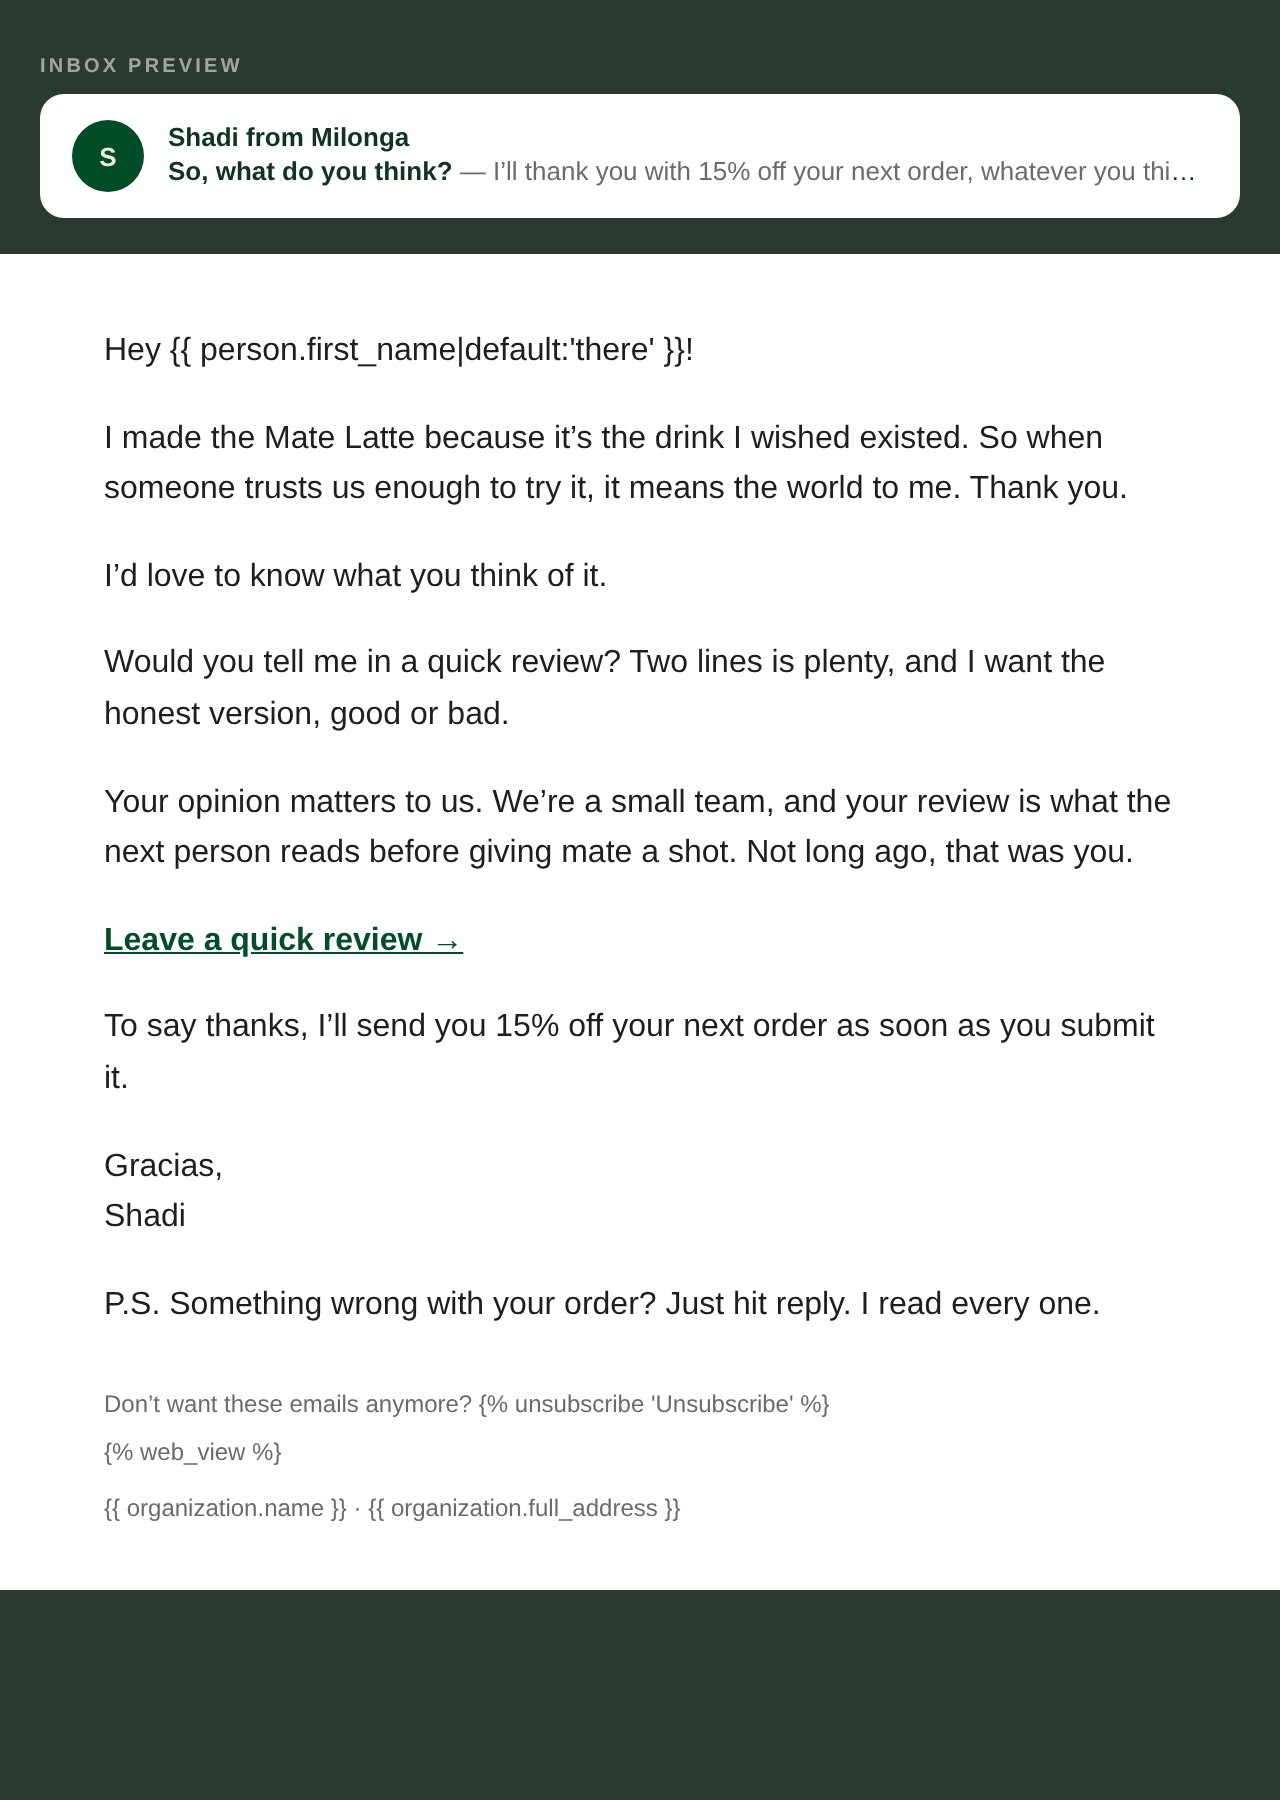
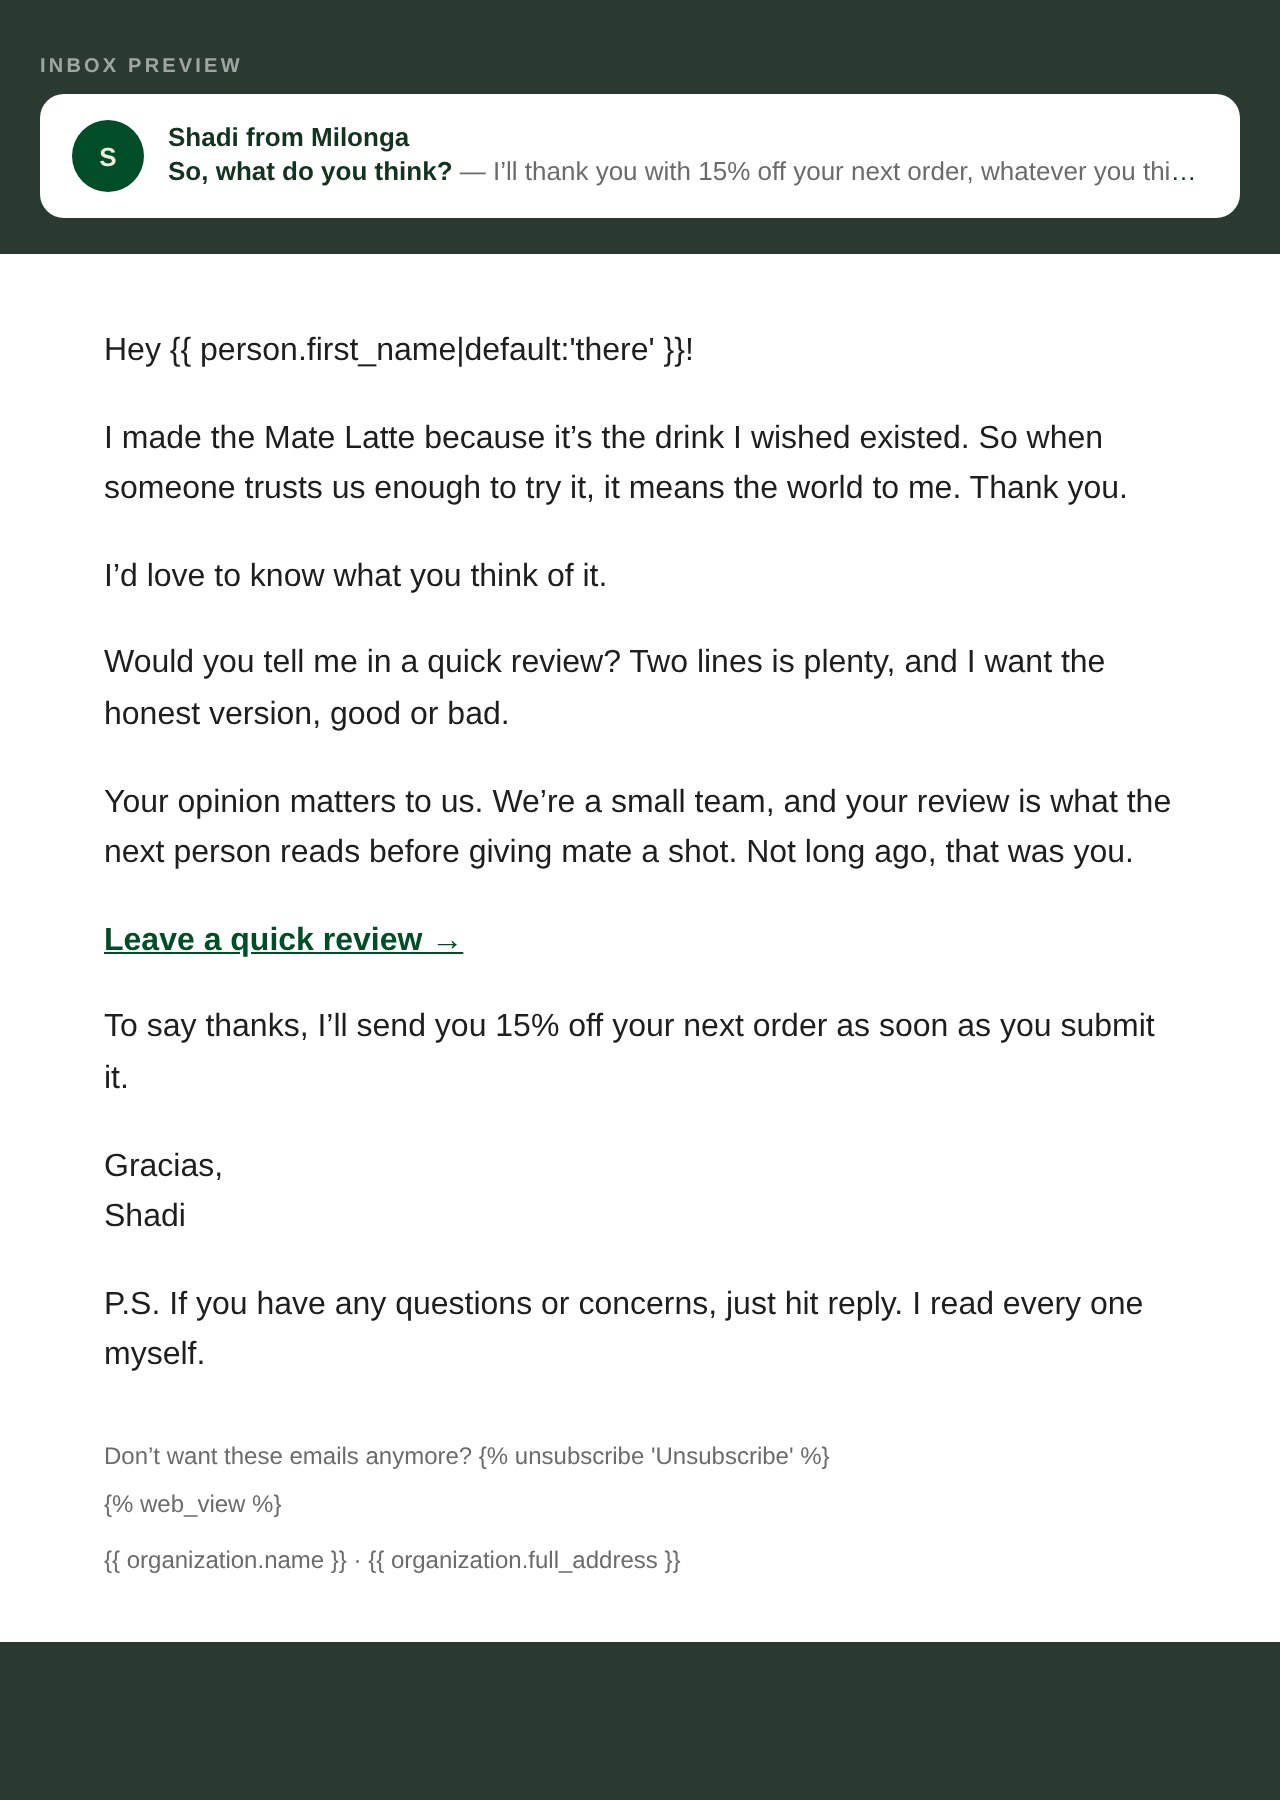
Review request, first-time buyers E1: person-to-person P.S.
'If you have any questions or concerns, just hit reply. I read every
one myself.'

Claude-Session: https://claude.ai/code/session_0165XRX6qdjN6jQ924HLbrcX

Changed region(s): [[0.0, 0.7156, 1.0, 0.9333]]

diff --git a/email-ds/exports/klaviyo/review-first-e1/review-first-e1.html b/email-ds/exports/klaviyo/review-first-e1/review-first-e1.html
@@ -31,7 +31,7 @@
 <p style="margin:0 0 18px;"><a href="https://milonga.life/products/the-original-mate-latte?judgeme_review_source=shareable-link#judgeme_product_reviews" target="_blank" style="color:#004D27;font-weight:bold;text-decoration:underline;">Leave a quick review &rarr;</a></p>
 <p style="margin:0 0 18px;">To say thanks, I&rsquo;ll send you 15% off your next order as soon as you submit it.</p>
 <p style="margin:0 0 18px;">Gracias,<br>Shadi</p>
-<p style="margin:6px 0 0;">P.S. Something wrong with your order? Just hit reply. I read every one.</p>
+<p style="margin:6px 0 0;">P.S. If you have any questions or concerns, just hit reply. I read every one myself.</p>
 
 </td></tr>
 <tr><td class="pad" align="left" style="padding:0 32px 32px;font-family:Helvetica, Arial, sans-serif;font-size:12px;line-height:1.5;color:#6B6B6B;">

diff --git a/email-ds/refine/review-first-e1.html b/email-ds/refine/review-first-e1.html
@@ -15,7 +15,7 @@
 <p style="margin:0 0 18px;"><a href="https://milonga.life/products/the-original-mate-latte?judgeme_review_source=shareable-link#judgeme_product_reviews" target="_blank" style="color:#004D27;font-weight:bold;text-decoration:underline;">Leave a quick review &rarr;</a></p>
 <p style="margin:0 0 18px;">To say thanks, I&rsquo;ll send you 15% off your next order as soon as you submit it.</p>
 <p style="margin:0 0 18px;">Gracias,<br>Shadi</p>
-<p style="margin:6px 0 0;">P.S. Something wrong with your order? Just hit reply. I read every one.</p>
+<p style="margin:6px 0 0;">P.S. If you have any questions or concerns, just hit reply. I read every one myself.</p>
 
 </td></tr>
 <tr><td class="pad" align="left" style="padding:0 32px 32px;font-family:Helvetica, Arial, sans-serif;font-size:12px;line-height:1.5;color:#6B6B6B;">
